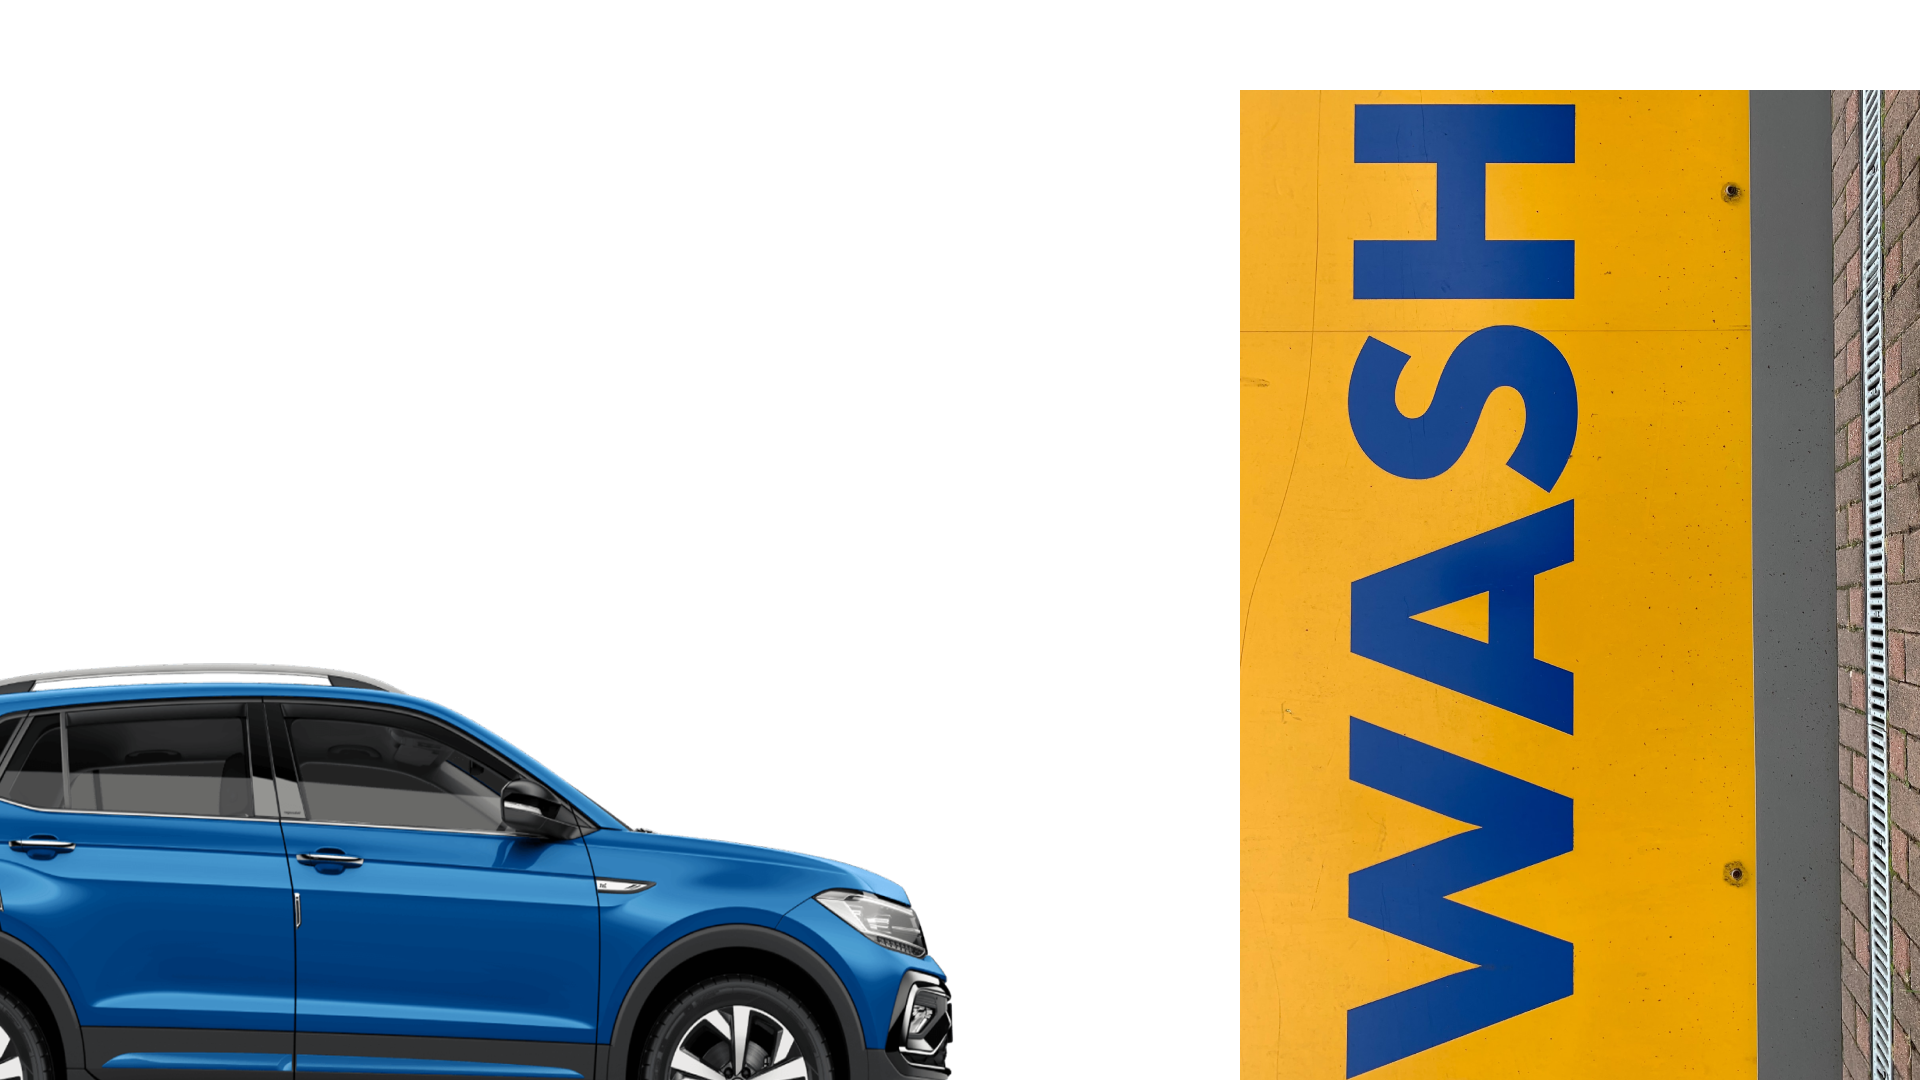
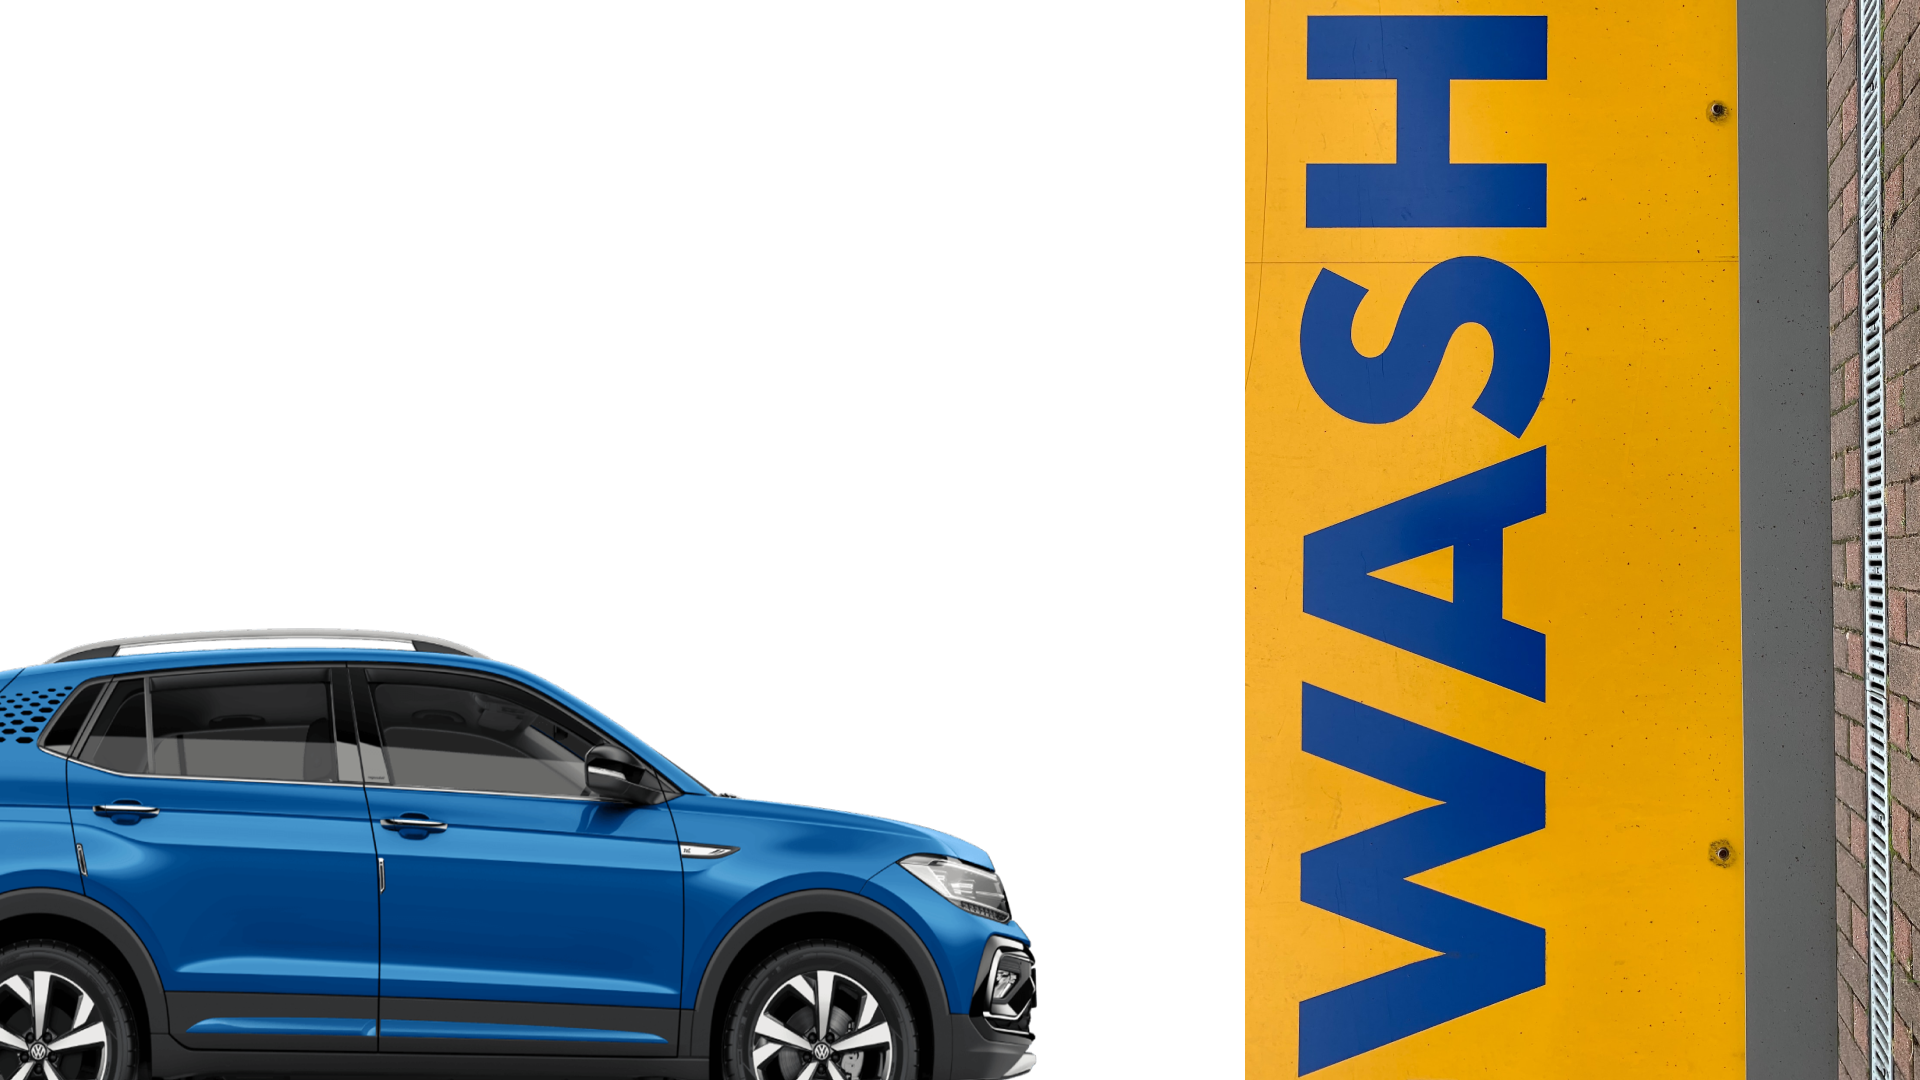
fixed homepage

Changed region(s): [[0.625, 0.0, 1.0, 1.0], [0.0, 0.5806, 0.5625, 1.0], [0.6562, 0.8556, 0.8438, 1.0]]

diff --git a/public/css/style.css b/public/css/style.css
@@ -1,9 +1,24 @@
-body{
-    background: green;
-}
-
 .vr{
     opacity: 100%;
     height: 50px;
+    width: 3px;
     color: white;
+}
+
+.homepage{
+    background: url("../assets/homewp.png") no-repeat;
+    height: 100vh;
+    background-size: cover;
+    background-attachment: fixed;
+    background-position: center;
+} 
+
+.custom-btn {
+    background-color: #1B488B;
+    border-color: #1B488B;
+}
+
+.custom-btn:hover {
+    background-color: #14467E;
+    border-color: #14467E;
 }

diff --git a/resources/views/layouts/app.blade.php b/resources/views/layouts/app.blade.php
@@ -22,7 +22,7 @@
 </head>
 <body>
     <div id="app">
-        <nav class="navbar navbar-expand-md" style="background-color: #1B488B;">
+        <nav class="navbar navbar-expand-md fixed-top" style="background-color: #1B488B;">
             <div class="container-fluid">
                 <a class="navbar-brand ml-auto" href="{{ url('/') }}">
                     <img src="assets/logo.png" alt="CleanWash" height="64px">
@@ -34,9 +34,13 @@
 
                 <div class="collapse navbar-collapse" id="navbarSupportedContent">
                     <!-- Left Side Of Navbar -->
+                    @auth
                     <ul class="navbar-nav me-auto">
-
+                        <li class="nav-item"><a href="/request" class="nav-link text-uppercase gap-10 fw-bold fs-4 text-white">Appointment Request</a></li>
+                        <div class="vr"></div>
+                        <li class="nav-item"><a href="/appointments" class="nav-link text-uppercase gap-10 fw-bold fs-4 text-white">My Appointment</a></li>
                     </ul>
+                    @endauth
 
                     <!-- Right Side Of Navbar -->
                     
@@ -58,9 +62,10 @@
                                 </li>
                             @endif
                         @else
+                        
                             <li class="nav-item dropdown">
-                                <a id="navbarDropdown" class="nav-link dropdown-toggle" href="#" role="button" data-bs-toggle="dropdown" aria-haspopup="true" aria-expanded="false" v-pre>
-                                    {{ Auth::user()->name }}
+                                <a id="navbarDropdown" class="nav-link dropdown-toggle text-uppercase gap-10 fw-bold fs-4 text-white" href="#" role="button" data-bs-toggle="dropdown" aria-haspopup="true" aria-expanded="false" v-pre>
+                                    Welcome, {{ Auth::user()->name }}
                                 </a>
 
                                 <div class="dropdown-menu dropdown-menu-end" aria-labelledby="navbarDropdown">

diff --git a/resources/views/home.blade.php b/resources/views/home.blade.php
@@ -1,5 +1,20 @@
 @extends('layouts.app')
 
 @section('content')
+<div class="homepage vh-100">
+<div class="d-flex align-items-center" style="height: 50%;">
+            <div class="container-fluid">
+                <h1 class="heading1 text-yellow">Book your online appointment now!</h1>
+                <p class="fs-5 col-3 mt-4 mb-5">
+                    "Our online appointment booking platform offers a convenient way for busy car owners to schedule car
+                    wash services anytime and anywhere without the hassle of physically visiting a car wash facility."
+                </p>
+                <button class="btn custom-btn text-white px-4 py-2 text-uppercase">Get Started</button>
+                <button class="btn"><img src="assets/arrow.png" alt=""> </button>
+            </div>
+
+        </div>
+</div>
+
 
 @endsection
